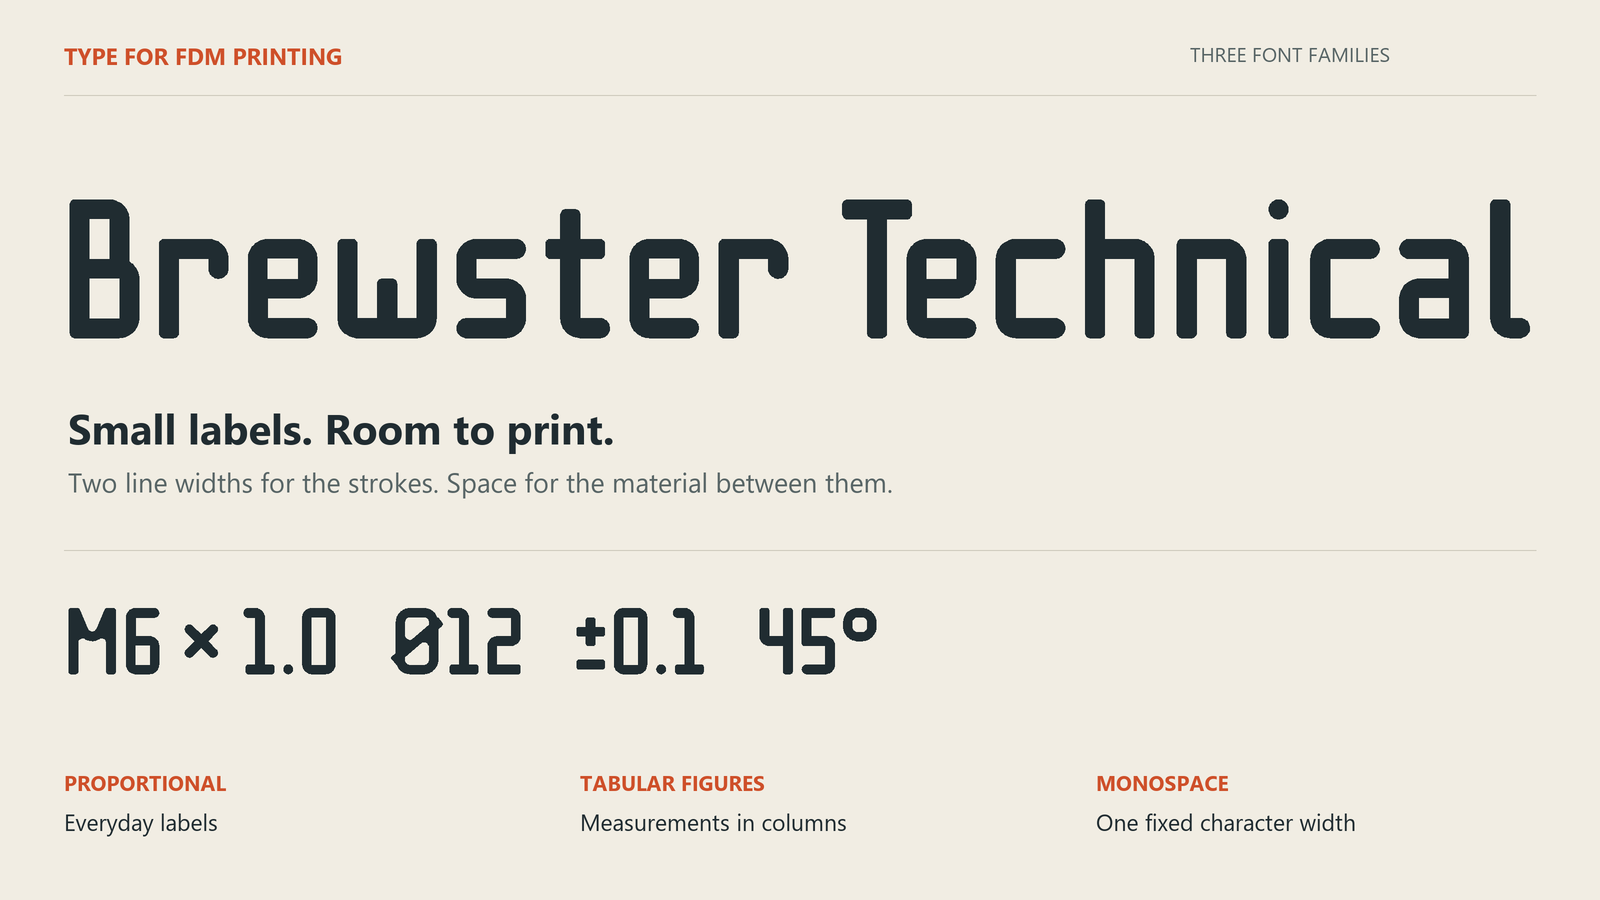
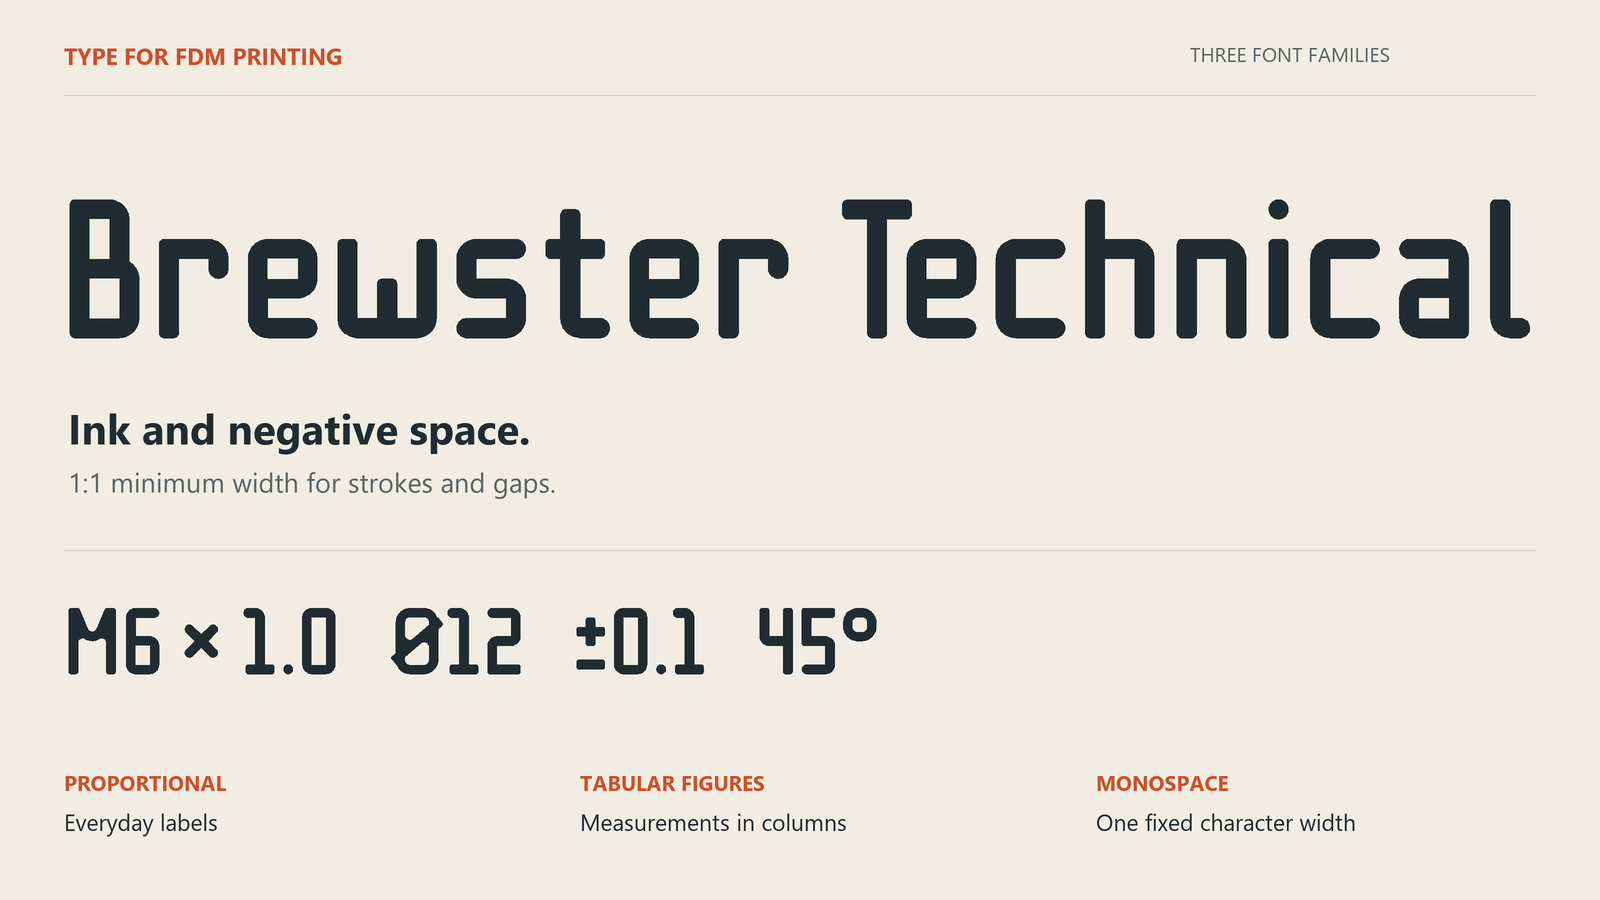
Explain matched stroke and gap widths in the font showcase

Changed region(s): [[0.0312, 0.4356, 0.375, 0.56], [0.2812, 0.5289, 0.5625, 0.56]]

diff --git a/tools/public_showcase.py b/tools/public_showcase.py
@@ -83,8 +83,8 @@ def hero():
     title = "Brewster Technical"
     width = max(g.bounds[2] for _, g, _ in FONTS["BrewsterTechnical"].layout(title))
     text(d,title,60,338,min(248, 1470 * 20 / width))
-    label(d,68,399,"Small labels. Room to print.",42,INK,True)
-    label(d,68,463,"Two line widths for the strokes. Space for the material between them.",27)
+    label(d,68,399,"Ink and negative space.",42,INK,True)
+    label(d,68,463,"1:1 minimum width for strokes and gaps.",27)
     line(d,[(64,550),(1536,550)])
     text(d,'M6 × 1.0   Ø12   ±0.1   45°',64,674,94)
     for x, title, detail in [(64,"PROPORTIONAL","Everyday labels"),(580,"TABULAR FIGURES","Measurements in columns"),

diff --git a/README.md b/README.md
@@ -1,10 +1,16 @@
 # Brewster Technical
 
-**A typeface for small, readable FDM-printed labels.**
+**A typeface for FDM 3D printing.**
 
 ![Brewster Technical: three font families for FDM printing, with dimensions and symbols.](showcase/hero.png)
 
-Brewster Technical starts with the extrusion width. At its reference size, nominal strokes
+Brewster Technical gives the ink and the negative space proportional widths.
+Uniform stroke width alone does not make a font easy to print: the gaps need
+room for plastic, too. The aim is to reach the minimum printable size together,
+without oversized features wasting space while the smallest gaps run out of
+room for a line of plastic.
+
+At its reference size, nominal strokes
 are **two line widths thick**, and counters and clear gaps are designed to leave
 **at least two line widths of room**. The material between the letters matters as
 much as the letters themselves.
